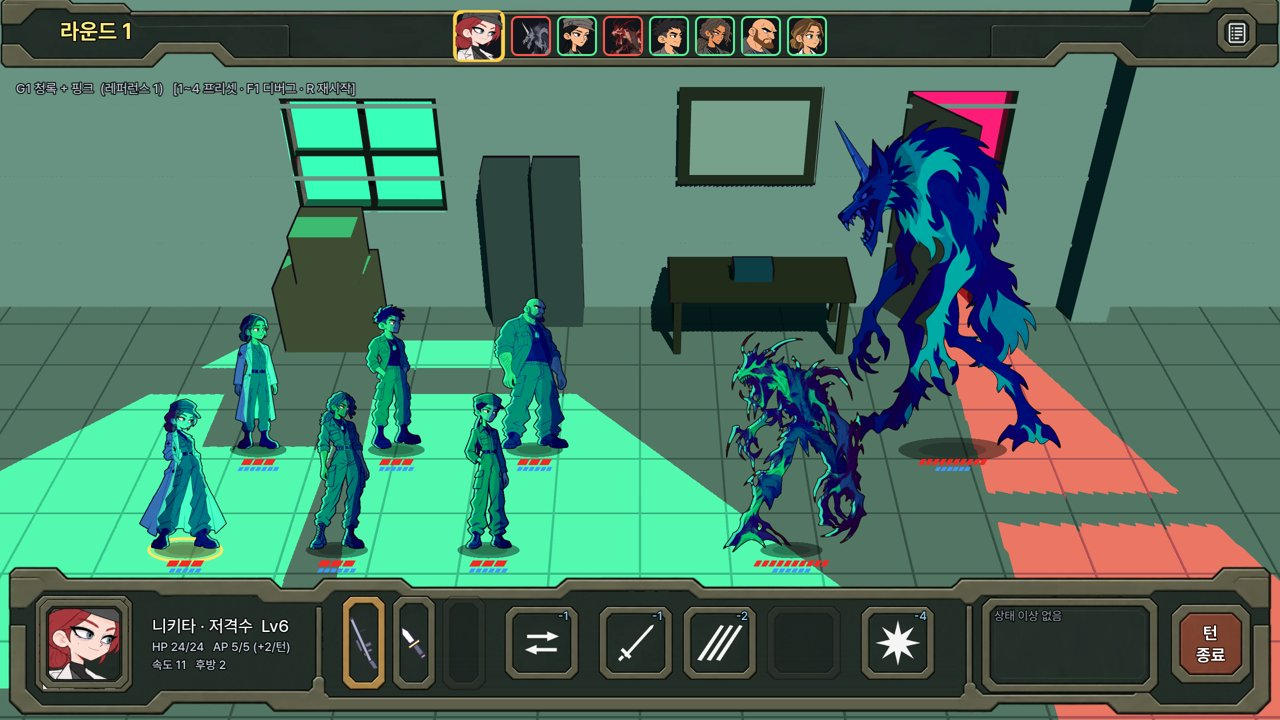
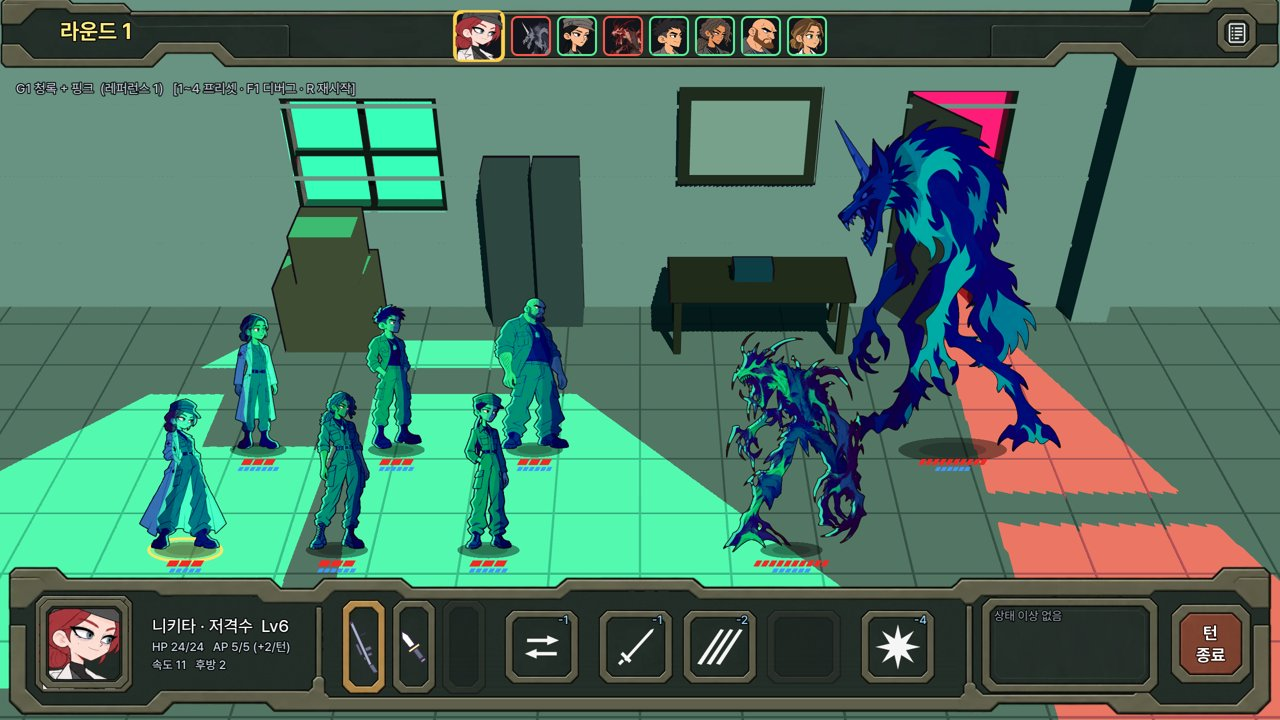
Battle UI v2: center skill plates within the skill section of the bottom frame
Claude-Session: https://claude.ai/code/session_014aytw3hj7boqn3SZ5GP5ti

diff --git a/docs/design/PROTOTYPE_GDD_v1_0.md b/docs/design/PROTOTYPE_GDD_v1_0.md
@@ -4,9 +4,9 @@
 
 ## 0. 현재 구현 반영 (변경될 때마다 갱신)
 > 아래는 원 기획 이후 사용자 결정으로 바뀐 내용. 상세 결정 이력은 `00_decision_log_v1_0.md`, 아트 규격은 `../ui_art_spec.md`.
-> 마지막 갱신: 2026-10-31 (전투 하단 슬롯 이름 글자 뺌 · 판 위아래 대칭)
+> 마지막 갱신: 2026-10-31 (전투 스킬 판 = 아래 틀 스킬 구간 안쪽 위아래 대칭)
 
-- **전투 UI v2** (사용자 제공 UI 패키지 art_src/ui/battle_ui_package.webp + 레퍼런스 art_src/ui/ref_battle_v2.webp → 조각 assets/ui/battle/v2/): 위 = 어두운 띠(양 끝 넓은 칸 — 왼쪽 라운드, 가운데 행동 순서, 오른쪽 기록 버튼 = 작은 사각 판), 아래 = 틀(원본 하단 바에서 안쪽 칸을 지운 bottom_shell — 칸막이 두 개를 이름 칸 오른쪽 · 상태 이상 창 왼쪽에 맞춰 늘림, 높이 150). 초상화 = 큰 사각 테두리, 무기 = 세로 판(장착 중 = 금색 판), 자리 이동 · 스킬 · 필살기 = 정사각형 판(선택 중 = 금색 테두리), 상태 이상 = 넓은 판, 턴 종료 = 붉은 판. 슬롯 아래 이름 글자 없음(이름 · 설명은 마우스를 올리면 말풍선), 무기 판 · 정사각형 판 모두 아래 틀 안쪽 세로 가운데(위아래 대칭). 행동 순서 초상화 = 위 띠 안쪽 세로 가운데(지금 차례 초상화도 가운데 기준으로 키움). 마우스 올림 = 밝게, 못 씀 = 어둡게.
+- **전투 UI v2** (사용자 제공 UI 패키지 art_src/ui/battle_ui_package.webp + 레퍼런스 art_src/ui/ref_battle_v2.webp → 조각 assets/ui/battle/v2/): 위 = 어두운 띠(양 끝 넓은 칸 — 왼쪽 라운드, 가운데 행동 순서, 오른쪽 기록 버튼 = 작은 사각 판), 아래 = 틀(원본 하단 바에서 안쪽 칸을 지운 bottom_shell — 칸막이 두 개를 이름 칸 오른쪽 · 상태 이상 창 왼쪽에 맞춰 늘림, 높이 150). 초상화 = 큰 사각 테두리, 무기 = 세로 판(장착 중 = 금색 판), 자리 이동 · 스킬 · 필살기 = 정사각형 판(선택 중 = 금색 테두리), 상태 이상 = 넓은 판, 턴 종료 = 붉은 판. 슬롯 아래 이름 글자 없음(이름 · 설명은 마우스를 올리면 말풍선), 무기 판 · 정사각형 판 모두 세로 가운데 — 기준은 스킬 구간(틀 위 띠가 아래로 튀어나온 칸)의 안쪽, 스킬 판 위아래 틈 같음. 행동 순서 초상화 = 위 띠 안쪽 세로 가운데(지금 차례 초상화도 가운데 기준으로 키움). 마우스 올림 = 밝게, 못 씀 = 어둡게.
 - **표현**: 캐릭터 2D **스프라이트 프레임 애니메이션**(**스프라이트 시트** `assets/characters/<id>/<동작>_<칸 수>.png`, 사용자가 제작 — 시트 없는 동작은 기본 그림 한 장. 현재: 하나·니키타·키라·단·이선·앨마 idle(기본 그림 숨쉬기) — 니키타(빨간 머리 의무병 코트)·키라(회색 군복, 최종)·하나(곱슬머리 군복·오른쪽 눈 아래 점, 최종)·앨마(흰 의무 가운)는 새 그림으로 교체되어 예전 걷기·피격·공격 시트는 지움) + 배경 3D(실광원·그림자). Skeleton2D 리그·3D 캐릭터 전환은 제거.
   칠 방식: **전 캐릭터 네온 칠**(선화는 원화 그대로, 면은 원화 밝기대로 조명색으로 덮음 — 어두운 면은 깊은 보라, 밝은 면은 조명색). `character.json` `"style": "classic"` 이면 예전 셀 칠, `"neon_gradient"` 0~1 = 몸 위→아래 색상 그라데이션(기본 끔).
   외곽 림(빛 반대쪽 가장자리 선): 그림 실루엣에서 셰이더가 직접 그림 — 원화 760px 기준 14px 두께, 윤곽을 따라 매끄럽게(계단 없음). 빛 반대쪽 가장자리 중 바깥이 트인 곳에만(턱 아래·밑단과 부츠 사이 같은 작은 틈 제외), 머리카락 끝 같은 가는 끝까지(림 안에선 어두운 먹선만 보존).

diff --git a/docs/design/00_decision_log_v1_0.md b/docs/design/00_decision_log_v1_0.md
@@ -662,6 +662,10 @@
 - 무기 · 자리 이동 · 스킬 · 필살기 칸 아래 이름 글자를 없앰 (이름 · 설명은 그대로 마우스를 올리면 말풍선).
 - 판(무기 46×96 · 정사각형 76)을 모두 세로 가운데 정렬, SlotsRow = 아래 틀 안쪽(offset -129.5 ~ -25.5) → 위아래 띠와의 틈이 판마다 같음(무기 28/28px, 정사각형 49/50px — 2560 창 기준).
 
+### 2026-10-31 — 전투 스킬 판 위아래 대칭 (다시)
+- 앞 측정 실수: 판 아래 테두리를 그림자로 보고 틈을 쟀음. 스킬 구간은 틀 위 띠가 더 아래로 내려와(안쪽 위 = 1195px, 무기 구간은 1179px — 2560 창) 기준이 다름.
+- SlotsRow offset -129.5 ~ -25.5 → -125 ~ -21 (4.5 내림): 스킬 판 위아래 틈 25/25px. 무기 판은 22/18px (무기 구간 안쪽 기준).
+
 ## 검증 중 (확정 아님)
 - **배경 3D + 캐릭터 2D 하이브리드** (2026-10-25 적용): 배경은 3D 방을 2D 카메라와 같은 투영으로 렌더, 캐릭터 라이팅은 실제 광원 위치 기준
   (빛 쪽 얼굴·몸을 광원색으로 밝힘 + 빛이 뒤에서 오면 같은 쪽 가장자리 림 + 바닥 그림자). 캐릭터 2D(리그)는 확정 사항 유지. (이전 2D 배경 판은 2026-10-27 제거.)
